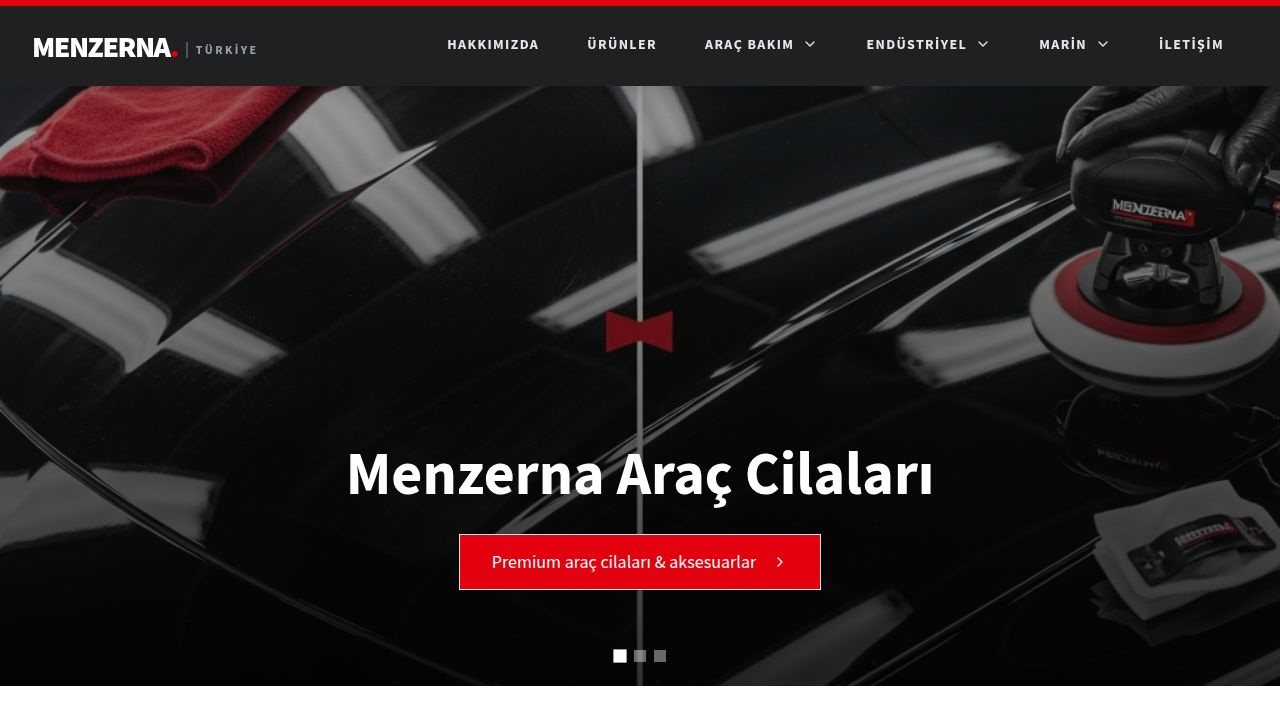
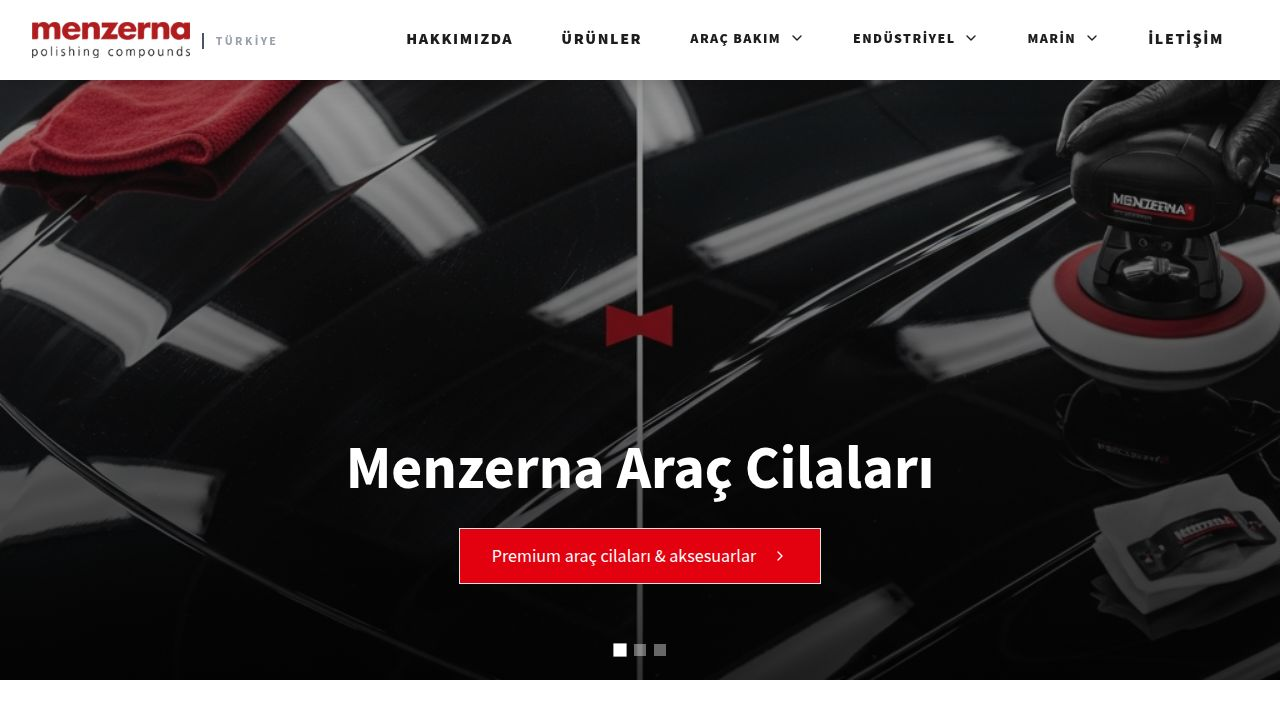
Update header and footer colors to match branding and improve contrast
Adjusted header navigation link colors for normal and hover states, inverted the logo's color for white backgrounds, and updated footer colors and layout to align with branding guidelines.

Replit-Commit-Author: Agent
Replit-Commit-Session-Id: 8f08bccc-35f5-465f-b67d-0b365600b909
Replit-Commit-Checkpoint-Type: full_checkpoint
Replit-Commit-Event-Id: e918e1ca-2843-4b57-9201-ef38eea67f14
Replit-Commit-Screenshot-Url: https://storage.googleapis.com/screenshot-production-us-central1/0012e102-3812-4a38-a6a2-64a7b0345e60/8f08bccc-35f5-465f-b67d-0b365600b909/eWlI6lC
Replit-Helium-Checkpoint-Created: true

diff --git a/client/src/components/layout.tsx b/client/src/components/layout.tsx
@@ -42,18 +42,18 @@ export function Layout({ children }: { children: React.ReactNode }) {
           <div className="flex justify-between items-center h-20">
             <Link href="/">
               <div className="flex items-center gap-3 cursor-pointer">
-                <img src="/images/menzerna-logo.svg" alt="Menzerna" className="h-8 md:h-9" />
-                <span className="text-xs font-bold tracking-[0.2em] text-gray-400 mt-0.5 uppercase border-l-2 border-gray-600 pl-3">
+                <img src="/images/menzerna-logo.svg" alt="Menzerna" className="h-8 md:h-9 invert" />
+                <span className="text-xs font-bold tracking-[0.2em] text-gray-400 mt-0.5 uppercase border-l-2 border-gray-300 pl-3">
                   Türkiye
                 </span>
               </div>
             </Link>
 
             <nav className="hidden lg:flex h-full items-center">
-              <Link href="/about" className="px-6 h-full flex items-center gap-1 uppercase tracking-widest transition-colors border-b-4 border-transparent hover:text-white hover:border-[#e3000f] text-[#1d1d1d] font-extrabold text-[16px]">
+              <Link href="/about" className="px-6 h-full flex items-center gap-1 uppercase tracking-widest transition-colors border-b-4 border-transparent text-[#1d1d1d] hover:text-[#e3000f] hover:border-[#e3000f] font-extrabold text-[16px]">
                   HAKKIMIZDA
               </Link>
-              <Link href="/products" className="px-6 h-full flex items-center gap-1 font-bold uppercase tracking-widest transition-colors border-b-4 border-transparent hover:text-white hover:border-[#e3000f] text-[16px] bg-[transparent] text-[#1d1d1d]">
+              <Link href="/products" className="px-6 h-full flex items-center gap-1 font-extrabold uppercase tracking-widest transition-colors border-b-4 border-transparent text-[#1d1d1d] hover:text-[#e3000f] hover:border-[#e3000f] text-[16px]">
                   ÜRÜNLER
               </Link>
 
@@ -64,7 +64,7 @@ export function Layout({ children }: { children: React.ReactNode }) {
                   onMouseEnter={() => setActiveMenu(navItem.id)}
                   onMouseLeave={() => setActiveMenu(null)}
                 >
-                  <button className="px-6 h-full flex items-center gap-1 text-sm uppercase tracking-widest transition-colors border-b-4 border-[#e3000f] font-extrabold text-[#1d1d1d]">
+                  <button className="px-6 h-full flex items-center gap-1 text-sm uppercase tracking-widest transition-colors border-b-4 border-transparent hover:text-[#e3000f] hover:border-[#e3000f] font-extrabold text-[#1d1d1d]">
                     {navItem.title}
                     <ChevronDown className={`w-4 h-4 ml-1 transition-transform duration-300 ${activeMenu === navItem.id ? "rotate-180" : ""}`} />
                   </button>
@@ -88,13 +88,13 @@ export function Layout({ children }: { children: React.ReactNode }) {
                 </div>
               ))}
 
-              <Link href="/contact" className="px-6 h-full flex items-center gap-1 uppercase tracking-widest transition-colors border-b-4 border-transparent hover:text-white hover:border-[#e3000f] text-[#1d1d1d] text-[16px] font-extrabold">
+              <Link href="/contact" className="px-6 h-full flex items-center gap-1 uppercase tracking-widest transition-colors border-b-4 border-transparent text-[#1d1d1d] hover:text-[#e3000f] hover:border-[#e3000f] text-[16px] font-extrabold">
                   İLETİŞİM
               </Link>
             </nav>
 
             <button 
-              className="lg:hidden text-white p-2 hover:text-[#e3000f] transition-colors"
+              className="lg:hidden text-[#1d1d1d] p-2 hover:text-[#e3000f] transition-colors"
               onClick={() => setIsMobileMenuOpen(!isMobileMenuOpen)}
             >
               {isMobileMenuOpen ? <X className="w-8 h-8" /> : <Menu className="w-8 h-8" />}
@@ -143,41 +143,41 @@ export function Layout({ children }: { children: React.ReactNode }) {
         )}
       </header>
       <main className="flex-grow flex flex-col">{children}</main>
-      <footer className="text-gray-400 mt-auto bg-[#202020]">
+      <footer className="text-gray-500 mt-auto bg-white">
         <div className="border-t-4 border-[#e3000f]"></div>
         <div className="container mx-auto px-4 lg:px-8 py-16">
           <div className="grid grid-cols-1 md:grid-cols-2 lg:grid-cols-4 gap-12">
             <div>
               <div className="mb-6 flex items-center gap-3">
-                <img src="/images/menzerna-logo.svg" alt="Menzerna" className="h-7" />
-                <span className="text-[10px] font-bold tracking-[0.2em] text-gray-500 uppercase border-l-2 border-gray-600 pl-3">Türkiye</span>
+                <img src="/images/menzerna-logo.svg" alt="Menzerna" className="h-7 invert" />
+                <span className="text-[10px] font-bold tracking-[0.2em] text-gray-400 uppercase border-l-2 border-gray-300 pl-3">Türkiye</span>
               </div>
-              <p className="text-sm leading-relaxed mb-6">
+              <p className="text-sm leading-relaxed mb-6 text-gray-500">
                 Menzerna, 1888'den beri profesyonel polisaj pastalarının geliştirilmesi ve üretiminde dünya standartlarını belirlemektedir.
               </p>
-              <p className="text-xs font-bold uppercase tracking-widest text-gray-500">Perfection in Polishing</p>
+              <p className="text-xs font-bold uppercase tracking-widest text-gray-400">Perfection in Polishing</p>
             </div>
 
             <div>
-              <h4 className="text-white font-black uppercase tracking-widest text-sm mb-6">Ürünler</h4>
+              <h4 className="text-[#1d1d1d] font-black uppercase tracking-widest text-sm mb-6">Ürünler</h4>
               <ul className="space-y-3">
                 <li>
-                  <Link href="/category/car-polish" className="text-sm hover:text-[#e3000f] transition-colors flex items-center gap-2">
+                  <Link href="/category/car-polish" className="text-sm text-gray-500 hover:text-[#e3000f] transition-colors flex items-center gap-2">
                     <ChevronRight className="w-3 h-3" /> Pasta, Cila ve Boya Korumalar
                   </Link>
                 </li>
                 <li>
-                  <Link href="/category/accessories" className="text-sm hover:text-[#e3000f] transition-colors flex items-center gap-2">
+                  <Link href="/category/accessories" className="text-sm text-gray-500 hover:text-[#e3000f] transition-colors flex items-center gap-2">
                     <ChevronRight className="w-3 h-3" /> Sünger, Keçe ve Tabanlıklar
                   </Link>
                 </li>
                 <li>
-                  <Link href="/category/solid-compounds" className="text-sm hover:text-[#e3000f] transition-colors flex items-center gap-2">
+                  <Link href="/category/solid-compounds" className="text-sm text-gray-500 hover:text-[#e3000f] transition-colors flex items-center gap-2">
                     <ChevronRight className="w-3 h-3" /> Katı Pasta ve Cilalar
                   </Link>
                 </li>
                 <li>
-                  <Link href="/category/boat-polish" className="text-sm hover:text-[#e3000f] transition-colors flex items-center gap-2">
+                  <Link href="/category/boat-polish" className="text-sm text-gray-500 hover:text-[#e3000f] transition-colors flex items-center gap-2">
                     <ChevronRight className="w-3 h-3" /> Marin Pasta ve Cilalar
                   </Link>
                 </li>
@@ -185,30 +185,30 @@ export function Layout({ children }: { children: React.ReactNode }) {
             </div>
 
             <div>
-              <h4 className="text-white font-black uppercase tracking-widest text-sm mb-6">Hızlı Erişim</h4>
+              <h4 className="text-[#1d1d1d] font-black uppercase tracking-widest text-sm mb-6">Hızlı Erişim</h4>
               <ul className="space-y-3">
                 <li>
-                  <Link href="/" className="text-sm hover:text-[#e3000f] transition-colors flex items-center gap-2">
+                  <Link href="/" className="text-sm text-gray-500 hover:text-[#e3000f] transition-colors flex items-center gap-2">
                     <ChevronRight className="w-3 h-3" /> Ana Sayfa
                   </Link>
                 </li>
                 <li>
-                  <Link href="/products" className="text-sm hover:text-[#e3000f] transition-colors flex items-center gap-2">
+                  <Link href="/products" className="text-sm text-gray-500 hover:text-[#e3000f] transition-colors flex items-center gap-2">
                     <ChevronRight className="w-3 h-3" /> Tüm Ürünler
                   </Link>
                 </li>
                 <li>
-                  <Link href="/about" className="text-sm hover:text-[#e3000f] transition-colors flex items-center gap-2">
+                  <Link href="/about" className="text-sm text-gray-500 hover:text-[#e3000f] transition-colors flex items-center gap-2">
                     <ChevronRight className="w-3 h-3" /> Hakkımızda
                   </Link>
                 </li>
                 <li>
-                  <Link href="/contact" className="text-sm hover:text-[#e3000f] transition-colors flex items-center gap-2">
+                  <Link href="/contact" className="text-sm text-gray-500 hover:text-[#e3000f] transition-colors flex items-center gap-2">
                     <ChevronRight className="w-3 h-3" /> İletişim
                   </Link>
                 </li>
                 <li>
-                  <Link href="/dealers" className="text-sm hover:text-[#e3000f] transition-colors flex items-center gap-2">
+                  <Link href="/dealers" className="text-sm text-gray-500 hover:text-[#e3000f] transition-colors flex items-center gap-2">
                     <ChevronRight className="w-3 h-3" /> Yetkili Satıcılar
                   </Link>
                 </li>
@@ -216,11 +216,11 @@ export function Layout({ children }: { children: React.ReactNode }) {
             </div>
 
             <div>
-              <h4 className="text-white font-black uppercase tracking-widest text-sm mb-6">İletişim</h4>
+              <h4 className="text-[#1d1d1d] font-black uppercase tracking-widest text-sm mb-6">İletişim</h4>
               <div className="space-y-4">
                 <div className="flex items-start gap-3">
                   <MapPin className="w-4 h-4 text-[#e3000f] shrink-0 mt-0.5" />
-                  <p className="text-sm leading-relaxed">
+                  <p className="text-sm leading-relaxed text-gray-500">
                     MG POLİSAJ OTOMOTİV İTH. İHR. A.Ş.<br/>
                     Ümit Mh. 1411/7 Sk. No: 4/I<br/>
                     35060 Bornova / İZMİR
@@ -228,15 +228,15 @@ export function Layout({ children }: { children: React.ReactNode }) {
                 </div>
                 <div className="flex items-center gap-3">
                   <Phone className="w-4 h-4 text-[#e3000f] shrink-0" />
-                  <a href="tel:+905352517411" className="text-sm hover:text-white transition-colors">+90 (535) 251 74 11</a>
+                  <a href="tel:+905352517411" className="text-sm text-gray-500 hover:text-[#e3000f] transition-colors">+90 (535) 251 74 11</a>
                 </div>
                 <div className="flex items-center gap-3">
                   <Mail className="w-4 h-4 text-[#e3000f] shrink-0" />
-                  <a href="mailto:info@menzernaturkiye.com" className="text-sm hover:text-white transition-colors">info@menzernaturkiye.com</a>
+                  <a href="mailto:info@menzernaturkiye.com" className="text-sm text-gray-500 hover:text-[#e3000f] transition-colors">info@menzernaturkiye.com</a>
                 </div>
                 <div className="flex items-start gap-3">
                   <Clock className="w-4 h-4 text-[#e3000f] shrink-0 mt-0.5" />
-                  <p className="text-sm leading-relaxed">
+                  <p className="text-sm leading-relaxed text-gray-500">
                     Pzt - Cuma: 08:30 - 18:00<br/>
                     Cumartesi: 09:00 - 14:00
                   </p>
@@ -246,16 +246,16 @@ export function Layout({ children }: { children: React.ReactNode }) {
           </div>
         </div>
 
-        <div className="border-t border-gray-800">
+        <div className="border-t border-gray-200">
           <div className="container mx-auto px-4 lg:px-8 py-6 flex flex-col md:flex-row justify-between items-center gap-4">
-            <p className="text-xs text-gray-500">
+            <p className="text-xs text-gray-400">
               &copy; {new Date().getFullYear()} MG Polisaj Otomotiv - Menzerna Türkiye Yetkili Distribütörü. Tüm hakları saklıdır.
             </p>
             <div className="flex items-center gap-6">
-              <a href="https://www.menzerna.com" target="_blank" rel="noopener noreferrer" className="text-xs text-gray-500 hover:text-[#e3000f] transition-colors">
+              <a href="https://www.menzerna.com" target="_blank" rel="noopener noreferrer" className="text-xs text-gray-400 hover:text-[#e3000f] transition-colors">
                 menzerna.com
               </a>
-              <a href="https://mgpolishing.com" target="_blank" rel="noopener noreferrer" className="text-xs text-gray-500 hover:text-[#e3000f] transition-colors">
+              <a href="https://mgpolishing.com" target="_blank" rel="noopener noreferrer" className="text-xs text-gray-400 hover:text-[#e3000f] transition-colors">
                 mgpolishing.com
               </a>
             </div>
